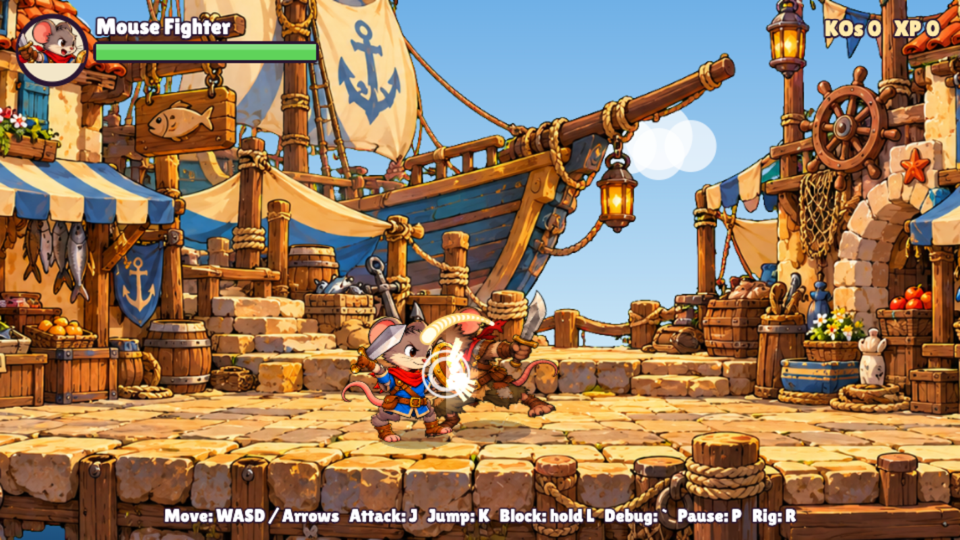
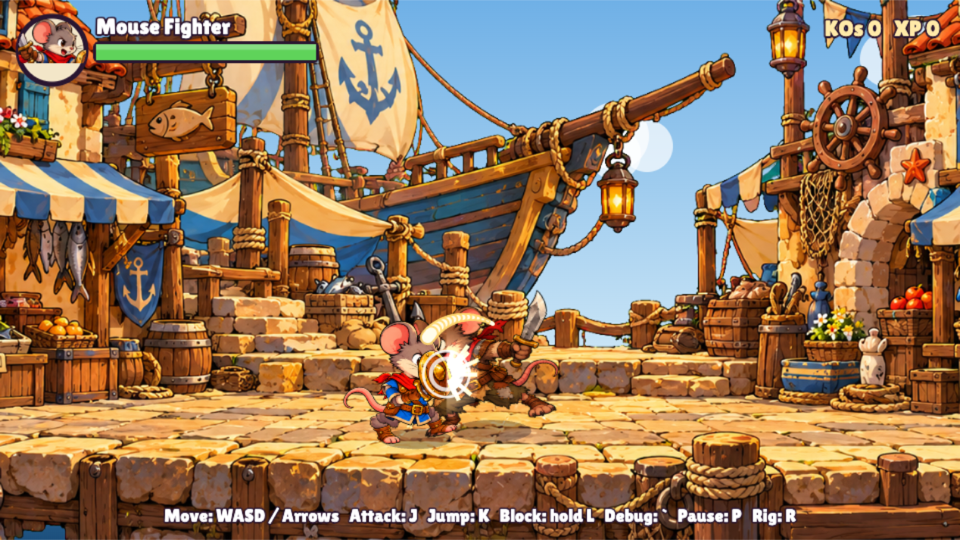
T007: shield-wall block pose (user idea: spartans behind their shield wall)
Hunched behind the raised shield, sword arm tucked behind it with the
point out past the edge; test keeps both boots on the floor.

diff --git a/src/data/rigs/mouse-fighter-poses.js b/src/data/rigs/mouse-fighter-poses.js
@@ -41,12 +41,15 @@ export default {
     'leg-back-upper': -60, 'leg-back-lower': 75, 'leg-front-upper': -25, 'leg-front-lower': 70,
     tail: 25, 'scarf-tail': 30,
   },
-  block: {   // braced behind the shield: leaning into it, wide stance, sword cocked over the shoulder ready to answer
-    torso: 12, head: 4, dy: 2,
-    'arm-back-upper': -104, 'arm-back-lower': -44, shield: -4,   // shield pushed forward, top at chin height
-    'arm-front-upper': 150, 'arm-front-lower': -40, sword: -152,   // tip: 12 + 150 - 40 - 152 = -30, up and forward
-    'leg-back-upper': -72, 'leg-back-lower': 56, 'leg-front-upper': 50, 'leg-front-lower': -62,
-    tail: -15, 'scarf-tail': -20,
+  block: {   // shield wall (user: "like spartans behind their shield wall"): hunched low behind the raised shield,
+    // eyes just over the rim, sword arm tucked behind the shield with the point out past its edge.
+    // Legs: boots kept as flat as in stance (torso + upper + lower), soles on the floor at this crouch.
+    torso: 16, head: 12, dy: 9,
+    'arm-back-upper': -98, 'arm-back-lower': -110, shield: 0,
+    'arm-front-upper': -40, 'arm-front-lower': -80, sword: -274,
+    'arm-front-upper.order': 10.1, 'sword.order': 10.2, 'arm-front-lower.order': 10.3,   // behind the shield (11), over the head (10)
+    'leg-back-upper': -103, 'leg-back-lower': 75, 'leg-front-upper': 64, 'leg-front-lower': -80,
+    tail: -20, 'scarf-tail': -25,
   },
   hurt: {
     swap: { head: 'head-hurt' },

diff --git a/docs/STATUS.md b/docs/STATUS.md
@@ -41,6 +41,7 @@
 - League of Legends-style hero kits (passive + three cooldown abilities + an ultimate, on top of the basic combo), like Dungeon Fighter Online. User is a big LoL fan. Idea only, for Stage 8 heroes; mind button count.
 
 ## Last session
+2026-10-14 code: T007 round 3: block pose is now the user's "spartans behind their shield wall": hunched low behind the raised shield, eyes over the rim, sword arm tucked behind it with the point out past the edge; boots flat on the floor (new rig test). Rig screens replaced.
 2026-10-14 code: T007 round 2: user likes the block mechanics but not the pose ("drops his sword and leans back"). New rig `block`: leaning into a raised shield (chin height), wide brace, sword cocked over the shoulder; standee leans forward and only jolts back on a blocked hit. Screens replaced. User idea for the lead: a parry later.
 2026-10-14 code: T007 on branch `t007-shield-block`: hold L / RB blocks (state `block`, shuffle 0.6, facing locked); frontal hits -> `block` event (chip 0, pushback, 12f blockstun, attacker shoved and its lunge stops), from behind lands. Clang fx, rig `block` pose, standee lean, run log `blocks`, lab "Hero block" sliders. L downloads logs only on game over.
 2026-10-14 code: 7/7 tests (new tests/block.test.mjs); bot run identical to main apart from the new `blocks: 0` field. Screens in docs/screens/T007/. Human check open: does blocking feel solid, rats fair?
